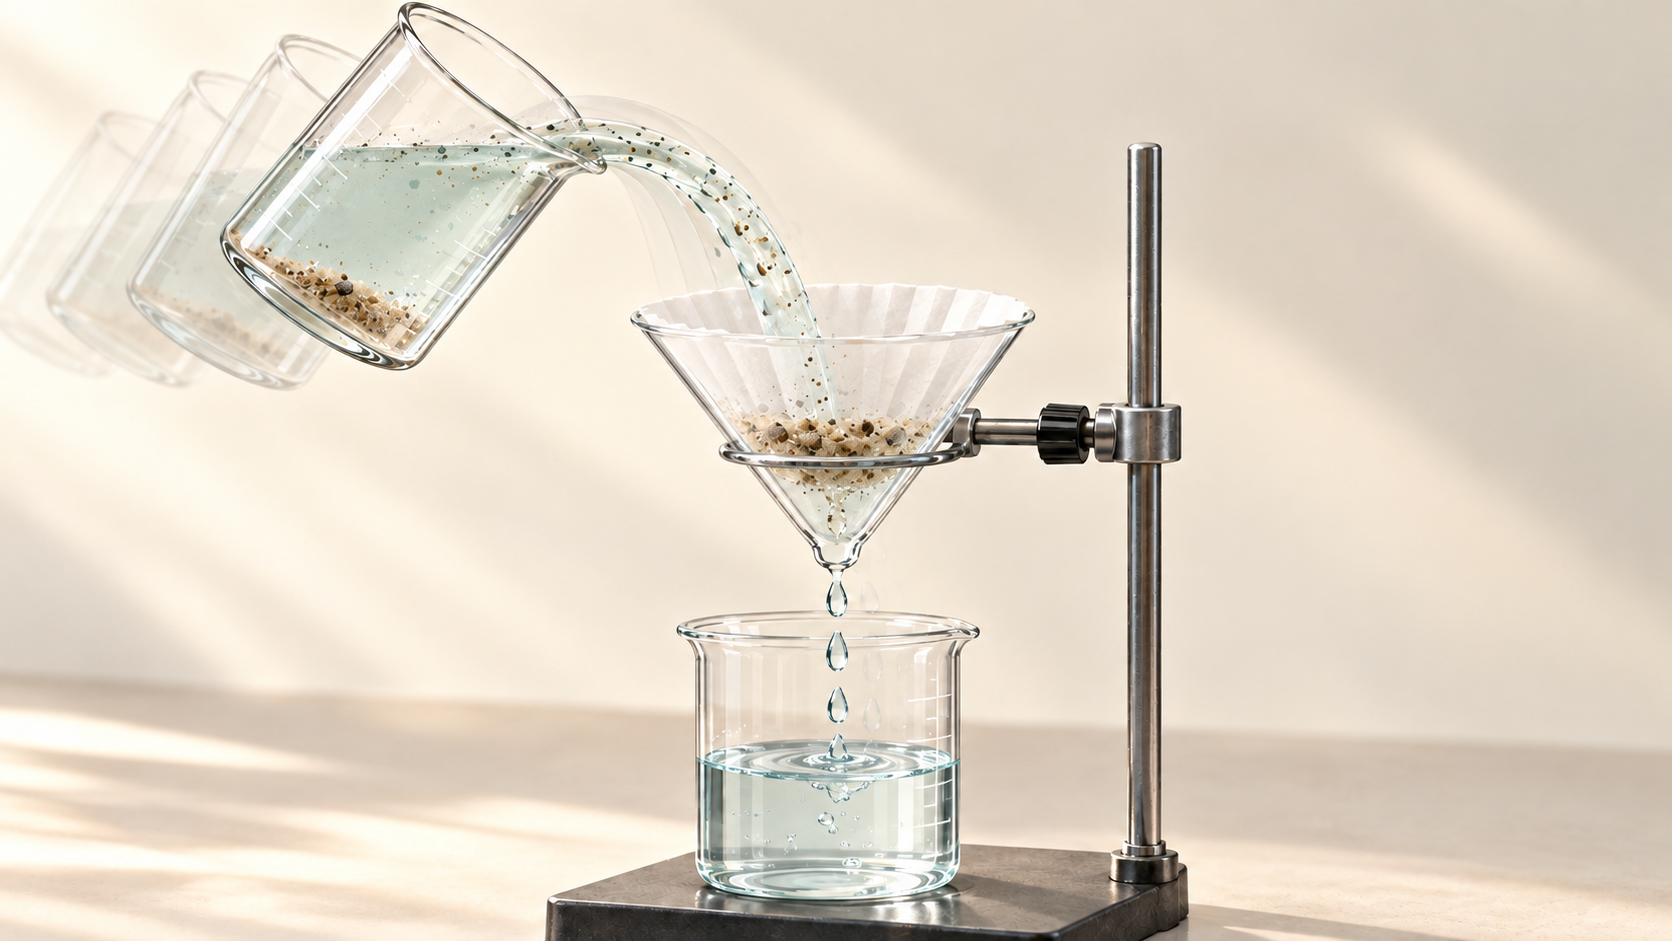
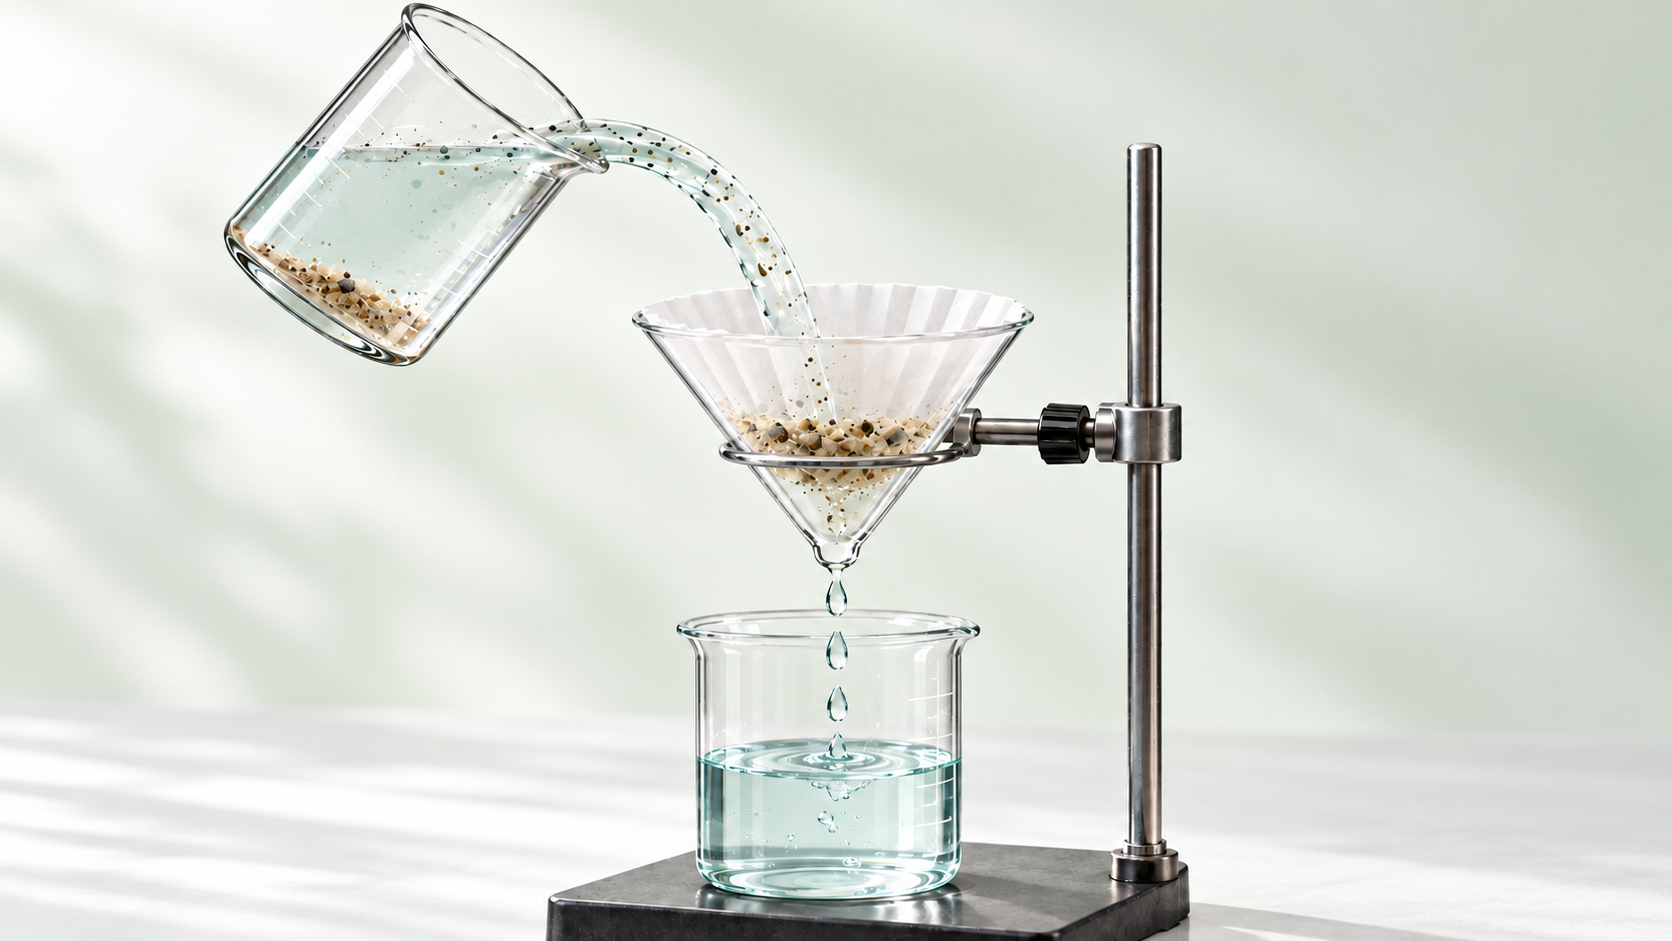
Restore continuous filtration scene with motion

diff --git a/units/4/parts/4.2/index.html b/units/4/parts/4.2/index.html
@@ -52,43 +52,25 @@
     .evidence-box,.note-box { margin:12px 0; padding:12px 14px; border-left:4px solid #82a98c; border-radius:7px; background:#f0f6f0; }
     .evidence-box strong { display:block; margin-bottom:3px; }
     .filter-animation { position:relative; margin:16px 0 10px; overflow:hidden; border:1px solid #d8e2da; border-radius:18px; background:#f1f6f1; box-shadow:0 12px 30px #243a350d; }
-    .filter-scene { display:block; width:100%; height:auto; }
-    .filter-scene .glass { fill:url(#glass-fill); stroke:#71887e; stroke-width:4; stroke-linejoin:round; }
-    .filter-scene .glass-edge { fill:none; stroke:#fff; stroke-width:5; stroke-linecap:round; opacity:.86; }
-    .filter-scene .filter-paper { transition:transform .9s cubic-bezier(.2,.8,.25,1),opacity .6s; }
-    .filter-scene .sample-beaker { transform-box:view-box; transform-origin:310px 198px; transition:transform 1.1s cubic-bezier(.2,.8,.25,1); }
-    .filter-scene .sample-water { transition:opacity .7s; }
-    .filter-scene .pour-stream,.filter-scene .water-bead,.filter-scene .sand-traveler,.filter-scene .drip-stream,.filter-scene .drip-bead { opacity:0; }
-    .filter-scene .filtered-sand { opacity:0; transition:opacity .7s; }
-    .filter-scene .pour-stream { fill:none; stroke:#9ccfc2; stroke-width:18; stroke-linecap:round; stroke-dasharray:18 14; filter:url(#soft-shadow); }
-    .filter-scene .pour-highlight,.filter-scene .drip-highlight { fill:none; stroke:#f6fffb; stroke-width:4; stroke-linecap:round; stroke-dasharray:5 14; }
-    .filter-scene .water-bead { fill:#eafff8; stroke:#85b9aa; stroke-width:2; }
-    .filter-scene .sand-traveler { fill:#b98245; stroke:#fff0d6; stroke-width:2; }
-    .filter-scene .drip-stream { fill:none; stroke:#9ccfc2; stroke-width:8; stroke-linecap:round; stroke-dasharray:7 11; }
-    .filter-scene .drip-bead { fill:#a8d9cc; stroke:#fff; stroke-width:2; }
-    .filter-scene .collected-water { transform-box:fill-box; transform-origin:center bottom; transform:scaleY(.02); transition:transform 1.5s ease; }
-    .filter-animation[data-stage="1"] .filter-paper,.filter-animation[data-stage="2"] .filter-paper,.filter-animation[data-stage="3"] .filter-paper { transform:translateY(0); opacity:1; }
-    .filter-animation[data-stage="0"] .filter-paper { transform:translateY(-26px); opacity:.4; }
-    .filter-animation[data-stage="2"] .sample-beaker { transform:rotate(38deg); }
-    .filter-animation[data-stage="3"] .sample-beaker { transform:rotate(0); }
-    .filter-animation[data-stage="2"] .sample-water { opacity:.58; }
-    .filter-animation[data-stage="2"] .pour-stream,.filter-animation[data-stage="2"] .water-bead,.filter-animation[data-stage="2"] .sand-traveler,.filter-animation[data-stage="3"] .drip-stream,.filter-animation[data-stage="3"] .drip-bead { opacity:1; }
-    .filter-animation[data-stage="2"] .pour-stream,.filter-animation[data-stage="2"] .pour-highlight { animation:filter-flow .7s linear infinite; }
-    .filter-animation[data-stage="2"] .water-bead circle { animation:water-fall 1.25s ease-in infinite; }
-    .filter-animation[data-stage="2"] .water-bead circle:nth-child(2) { animation-delay:-.4s; }
-    .filter-animation[data-stage="2"] .water-bead circle:nth-child(3) { animation-delay:-.82s; }
-    .filter-animation[data-stage="2"] .sand-traveler circle { animation:sand-travel 1.7s ease-in infinite; }
-    .filter-animation[data-stage="2"] .sand-traveler circle:nth-child(2) { animation-delay:-.7s; }
-    .filter-animation[data-stage="2"] .sand-traveler circle:nth-child(3) { animation-delay:-1.3s; }
-    .filter-animation[data-stage="2"] .filtered-sand,.filter-animation[data-stage="3"] .filtered-sand { opacity:1; }
-    .filter-animation[data-stage="2"] .drip-stream,.filter-animation[data-stage="3"] .drip-stream { animation:filter-flow .65s linear infinite; }
-    .filter-animation[data-stage="3"] .drip-bead circle { animation:drip-fall .9s ease-in infinite; }
-    .filter-animation[data-stage="3"] .drip-bead circle:nth-child(2) { animation-delay:-.45s; }
-    .filter-animation[data-stage="3"] .collected-water { transform:scaleY(1); }
-    @keyframes filter-flow { to { stroke-dashoffset:-64; } }
-    @keyframes water-fall { 0% { transform:translate(0,0); } 100% { transform:translate(0,100px); opacity:.18; } }
-    @keyframes sand-travel { 0% { transform:translate(0,0); } 72% { transform:translate(145px,78px); opacity:1; } 100% { transform:translate(148px,92px); opacity:0; } }
-    @keyframes drip-fall { 0% { transform:translateY(0); } 90% { transform:translateY(54px); opacity:1; } 100% { transform:translateY(58px); opacity:0; } }
+    .filter-animation .filter-illustration { display:block; width:100%; height:auto; }
+    .filter-animation .filter-motion { position:absolute; inset:0; display:block; width:100%; height:100%; overflow:visible; pointer-events:none; }
+    .filter-animation .flow-glint,.filter-animation .drip-glint { fill:none; stroke:#f4fffb; stroke-linecap:round; stroke-linejoin:round; stroke-dasharray:8 20; opacity:0; }
+    .filter-animation .flow-glint { stroke-width:9; }
+    .filter-animation .drip-glint { stroke-width:5; stroke-dasharray:4 15; }
+    .filter-animation .flow-bead { fill:#f4fffb; stroke:#79ad9b; stroke-width:2; filter:drop-shadow(0 1px 4px #50796855); opacity:0; }
+    .filter-animation .sand-bead { fill:#9d7044; stroke:#fff9ed; stroke-width:1.5; opacity:0; }
+    .filter-animation .filter-focus { fill:#eff8f3; fill-opacity:.12; stroke:#5e9b7e; stroke-width:5; stroke-dasharray:11 10; opacity:0; }
+    .filter-animation .result-ripple { fill:none; stroke:#a4d9cb; stroke-width:5; opacity:0; transform-box:fill-box; transform-origin:center; }
+    .filter-animation[data-stage="1"] .filter-focus { opacity:.85; animation:filter-focus 1.6s ease-in-out infinite; }
+    .filter-animation[data-stage="2"] .flow-glint,.filter-animation[data-stage="3"] .flow-glint { opacity:.92; animation:filter-flow .8s linear infinite; }
+    .filter-animation[data-stage="2"] .flow-bead,.filter-animation[data-stage="3"] .flow-bead { opacity:.95; }
+    .filter-animation[data-stage="2"] .sand-bead { opacity:1; }
+    .filter-animation[data-stage="3"] .drip-glint { opacity:.95; animation:filter-flow .6s linear infinite; }
+    .filter-animation[data-stage="3"] .drip-bead { opacity:1; }
+    .filter-animation[data-stage="3"] .result-ripple { opacity:.8; animation:result-ripple 1.6s ease-out infinite; }
+    @keyframes filter-flow { to { stroke-dashoffset:-56; } }
+    @keyframes filter-focus { 50% { stroke-dashoffset:-21; stroke-opacity:.45; } }
+    @keyframes result-ripple { 0% { transform:scale(.35); opacity:.8; } 100% { transform:scale(1.7); opacity:0; } }
     .filter-stage-labels { display:grid; grid-template-columns:repeat(4,minmax(0,1fr)); margin:0 0 8px; color:#53645d; font-size:.8rem; font-weight:700; text-align:center; }
     .filter-stage-labels button { min-width:0; padding:8px 3px; border:0; border-radius:9px; background:transparent; color:inherit; font-size:inherit; font-weight:inherit; cursor:pointer; }
     .filter-stage-labels button[aria-pressed="true"] { color:var(--green); background:#e7eee6; }
@@ -183,45 +165,20 @@
           <h2>把泥沙水倒進漏斗，會發生什麼？</h2>
           <p>這份水樣裡看得到泥沙。若想讓泥沙和水分開，可以用濾紙過濾；跟著步驟操作，看看固體和液體各自去了哪裡。</p>
           <div class="filter-animation" id="filter-animation" data-stage="0" role="group" aria-label="泥沙水經過濾紙的連續動畫；可選擇四個步驟查看">
-            <svg class="filter-scene" viewBox="0 0 1000 562" role="img" aria-label="動態示範泥沙水倒入濾紙漏斗：水流通過，泥沙留在濾紙上，較清澈的水滴入接液杯。">
-              <defs>
-                <linearGradient id="scene-bg" x2="0" y2="1"><stop stop-color="#f8fbf7"/><stop offset="1" stop-color="#e8f0e9"/></linearGradient>
-                <linearGradient id="glass-fill" x1="0" x2="1"><stop stop-color="#dfece5" stop-opacity=".52"/><stop offset=".42" stop-color="#fff" stop-opacity=".74"/><stop offset="1" stop-color="#cbded5" stop-opacity=".44"/></linearGradient>
-                <linearGradient id="water-fill" x2="0" y2="1"><stop stop-color="#b9ddd2" stop-opacity=".84"/><stop offset="1" stop-color="#80b9a9" stop-opacity=".9"/></linearGradient>
-                <linearGradient id="paper-fill" x2="0" y2="1"><stop stop-color="#fff"/><stop offset="1" stop-color="#edf4ed"/></linearGradient>
-                <filter id="soft-shadow" x="-.3" y="-.3" width="1.6" height="1.8"><feGaussianBlur stdDeviation="3"/></filter>
-                <clipPath id="beaker-clip"><path d="M178 141h147l-14 172q-2 23-23 23h-72q-21 0-23-23z"/></clipPath>
-                <clipPath id="receiver-clip"><path d="M590 433h103l-7 80q-2 16-17 16h-55q-15 0-17-16z"/></clipPath>
-              </defs>
-              <rect width="1000" height="562" fill="url(#scene-bg)"/>
-              <circle cx="830" cy="90" r="120" fill="#fff" opacity=".42"/><path d="M0 430q235-45 500-7t500-2v141H0z" fill="#e1e8df" opacity=".65"/>
-              <path d="M55 443h890" stroke="#c6d1c7" stroke-width="3"/><path d="M55 449h890" stroke="#fff" stroke-width="2" opacity=".8"/>
-              <text x="44" y="47" fill="#547064" font-size="18" font-weight="700" font-family="system-ui,sans-serif">泥沙水樣</text>
-              <text x="540" y="47" fill="#547064" font-size="18" font-weight="700" font-family="system-ui,sans-serif">濾紙過濾</text>
-              <g class="sample-beaker">
-                <ellipse cx="252" cy="346" rx="84" ry="12" fill="#50665b" opacity=".12"/>
-                <path d="M178 141h147l-14 172q-2 23-23 23h-72q-21 0-23-23z" class="glass"/>
-                <g clip-path="url(#beaker-clip)"><path class="sample-water" d="M167 223q60 6 166 0l-9 104q-2 16-18 16h-99q-16 0-18-16z" fill="url(#water-fill)"/><path d="M171 225q60 6 162 0" fill="none" stroke="#e9fff7" stroke-width="4" opacity=".85"/>
-                  <g fill="#a67b4b"><circle cx="202" cy="291" r="5"/><circle cx="234" cy="314" r="4"/><circle cx="276" cy="282" r="6"/><circle cx="297" cy="320" r="4"/><circle cx="215" cy="334" r="3"/></g>
-                  <g fill="#d0a970"><circle cx="218" cy="267" r="2.5"/><circle cx="261" cy="301" r="2.8"/><circle cx="290" cy="251" r="2"/><circle cx="244" cy="284" r="2"/></g>
-                </g>
-                <path d="M178 141q72 10 147 0" fill="none" stroke="#6f847a" stroke-width="5"/><path d="M190 151l12 150q1 15 15 19M313 151l-12 150q-1 15-15 19" class="glass-edge"/>
-                <path d="M181 142q72 14 143 0" fill="none" stroke="#fff" stroke-width="3" opacity=".9"/>
-              </g>
-              <ellipse cx="636" cy="448" rx="116" ry="13" fill="#52675c" opacity=".12"/>
-              <path d="M515 183q121 17 242 0l-13 35-89 102v74h-34v-74l-89-102z" fill="url(#glass-fill)" stroke="#82948b" stroke-width="5" stroke-linejoin="round"/>
-              <g class="filter-paper"><path d="M531 205q104 15 210 0l-87 105v76h-34v-76z" fill="url(#paper-fill)" stroke="#cbd9ce" stroke-width="3"/><path d="M550 218q82 11 166 0l-76 86v63h-17v-63z" fill="#f2f7f2" stroke="#d8e4d9" stroke-width="2"/></g>
-              <path d="M548 216q83 12 164 0l-73 84v68h-18v-68z" fill="#a9d4c5" opacity=".5"/>
-              <g class="filtered-sand"><g fill="#a87942" stroke="#fff0d5" stroke-width="2"><circle cx="602" cy="310" r="7"/><circle cx="620" cy="318" r="6"/><circle cx="639" cy="313" r="8"/><circle cx="655" cy="319" r="5"/><circle cx="631" cy="330" r="5"/><circle cx="611" cy="329" r="4"/></g><g fill="#cc9d62"><circle cx="616" cy="307" r="2.5"/><circle cx="644" cy="308" r="2.5"/><circle cx="661" cy="311" r="2"/></g></g>
-              <path d="M514 182q122 20 245 0" fill="none" stroke="#758a80" stroke-width="8" stroke-linecap="round"/><path d="M524 177q111 19 225 0" fill="none" stroke="#fff" stroke-width="3" stroke-linecap="round" opacity=".9"/>
-              <path d="M629 367v66" fill="none" stroke="#8c9c93" stroke-width="17"/><path d="M629 371v60" stroke="#fff" stroke-width="4" opacity=".75"/>
-              <g class="drip-stream"><path d="M629 414v60"/></g>
-              <g class="drip-bead"><circle cx="629" cy="414" r="6"/><circle cx="629" cy="414" r="5"/></g>
-              <g class="receiver"><path d="M590 433h103l-7 80q-2 16-17 16h-55q-15 0-17-16z" class="glass"/><g clip-path="url(#receiver-clip)"><path class="collected-water" d="M587 487q50-5 109 0v55H587z" fill="url(#water-fill)"/></g><path d="M590 433q51 7 103 0" fill="none" stroke="#73877d" stroke-width="5"/><path d="M600 444l6 58" class="glass-edge"/></g>
-              <path class="pour-stream" d="M365 167C422 173 472 190 519 222S562 250 585 263"/><path class="pour-highlight" d="M365 167C422 173 472 190 519 222S562 250 585 263"/>
-              <g class="water-bead"><circle cx="365" cy="167" r="7"/><circle cx="405" cy="180" r="5"/><circle cx="445" cy="197" r="6"/></g>
-              <g class="sand-traveler"><circle cx="379" cy="171" r="5"/><circle cx="424" cy="187" r="4"/><circle cx="465" cy="205" r="6"/></g>
-              <text x="580" y="540" fill="#547064" font-size="15" font-weight="650" font-family="system-ui,sans-serif">接液杯</text>
+            <img class="filter-illustration" src="assets/filtration-scene.png" width="1672" height="941" alt="同一個連續過濾場景：一只傾斜的玻璃杯將含少量泥沙的淺青綠色水倒入濾紙漏斗，泥沙留在濾紙上，濾液滴入下方接液杯。">
+            <svg class="filter-motion" viewBox="0 0 1672 941" aria-hidden="true">
+              <ellipse class="filter-focus" cx="830" cy="360" rx="176" ry="104"/>
+              <path class="flow-glint" d="M565 160C650 148 710 178 745 225S799 296 820 344"/>
+              <circle class="flow-bead" r="9"><animateMotion dur="1.15s" repeatCount="indefinite" path="M565 160C650 148 710 178 745 225S799 296 820 344"/></circle>
+              <circle class="flow-bead" r="6"><animateMotion dur="1.15s" begin="-.38s" repeatCount="indefinite" path="M565 160C650 148 710 178 745 225S799 296 820 344"/></circle>
+              <circle class="flow-bead" r="7"><animateMotion dur="1.15s" begin="-.76s" repeatCount="indefinite" path="M565 160C650 148 710 178 745 225S799 296 820 344"/></circle>
+              <circle class="sand-bead" r="6"><animateMotion dur="1.65s" repeatCount="indefinite" path="M565 160C650 148 710 178 745 225S799 296 820 344"/><animate attributeName="opacity" values="0;1;1;0" keyTimes="0;.12;.82;1" dur="1.65s" repeatCount="indefinite"/></circle>
+              <circle class="sand-bead" r="4.5"><animateMotion dur="1.65s" begin="-.55s" repeatCount="indefinite" path="M565 160C650 148 710 178 745 225S799 296 820 344"/><animate attributeName="opacity" values="0;1;1;0" keyTimes="0;.12;.82;1" dur="1.65s" begin="-.55s" repeatCount="indefinite"/></circle>
+              <circle class="sand-bead" r="5"><animateMotion dur="1.65s" begin="-1.1s" repeatCount="indefinite" path="M565 160C650 148 710 178 745 225S799 296 820 344"/><animate attributeName="opacity" values="0;1;1;0" keyTimes="0;.12;.82;1" dur="1.65s" begin="-1.1s" repeatCount="indefinite"/></circle>
+              <path class="drip-glint" d="M831 535C829 590 832 655 834 748"/>
+              <circle class="flow-bead drip-bead" r="6"><animateMotion dur="1s" repeatCount="indefinite" path="M831 535C829 590 832 655 834 748"/></circle>
+              <circle class="flow-bead drip-bead" r="4.5"><animateMotion dur="1s" begin="-.5s" repeatCount="indefinite" path="M831 535C829 590 832 655 834 748"/></circle>
+              <ellipse class="result-ripple" cx="835" cy="758" rx="44" ry="10"/>
             </svg>
           </div>
           <div class="filter-stage-labels" role="group" aria-label="選擇動畫步驟"><button type="button" data-filter-stage="0" aria-pressed="true">① 泥沙水樣</button><button type="button" data-filter-stage="1" aria-pressed="false">② 準備濾紙</button><button type="button" data-filter-stage="2" aria-pressed="false">③ 倒入樣本</button><button type="button" data-filter-stage="3" aria-pressed="false">④ 觀察結果</button></div>
